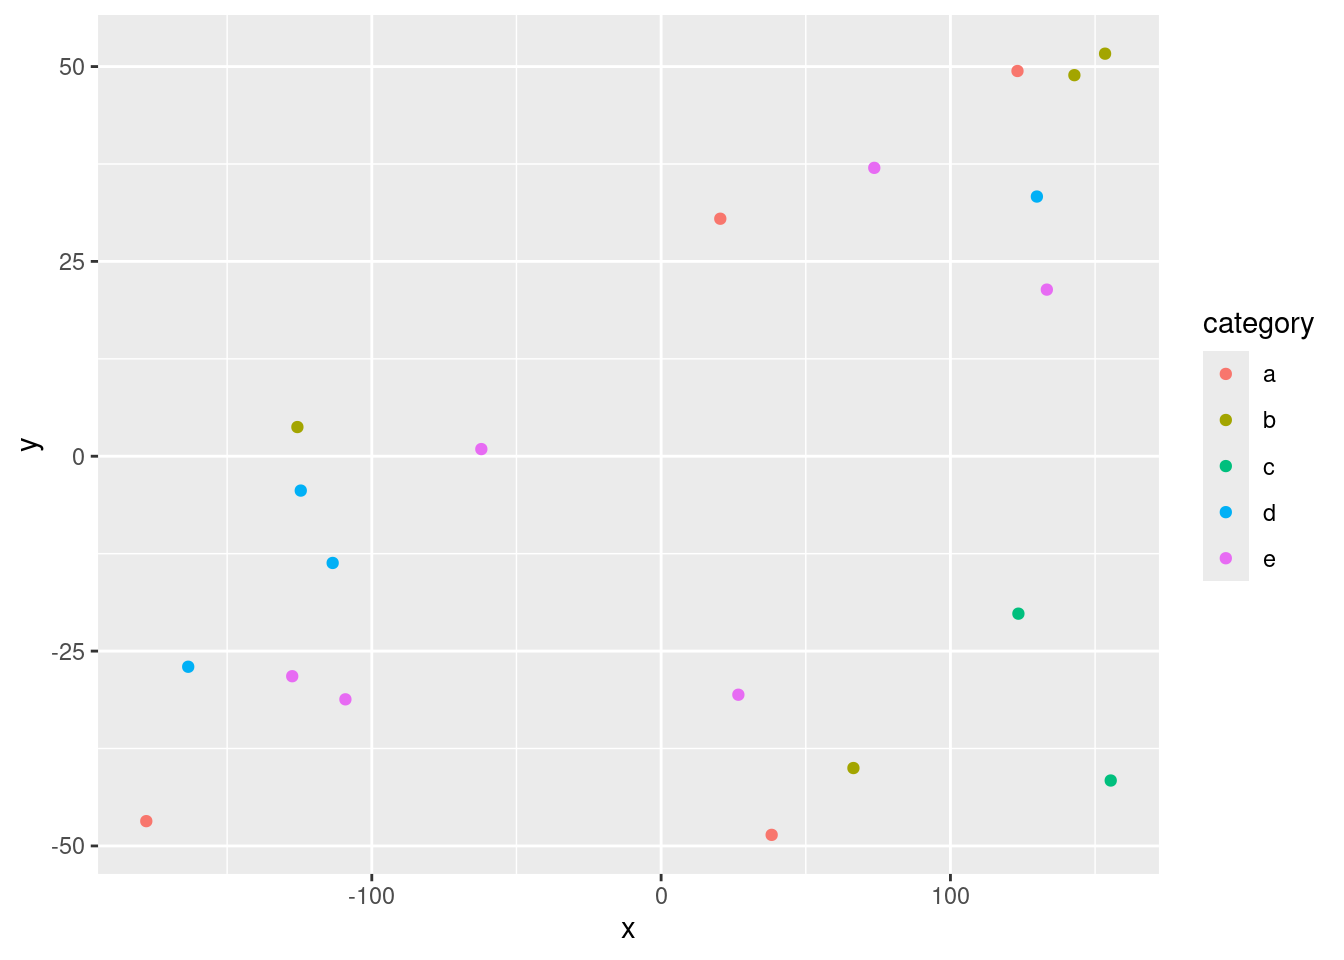
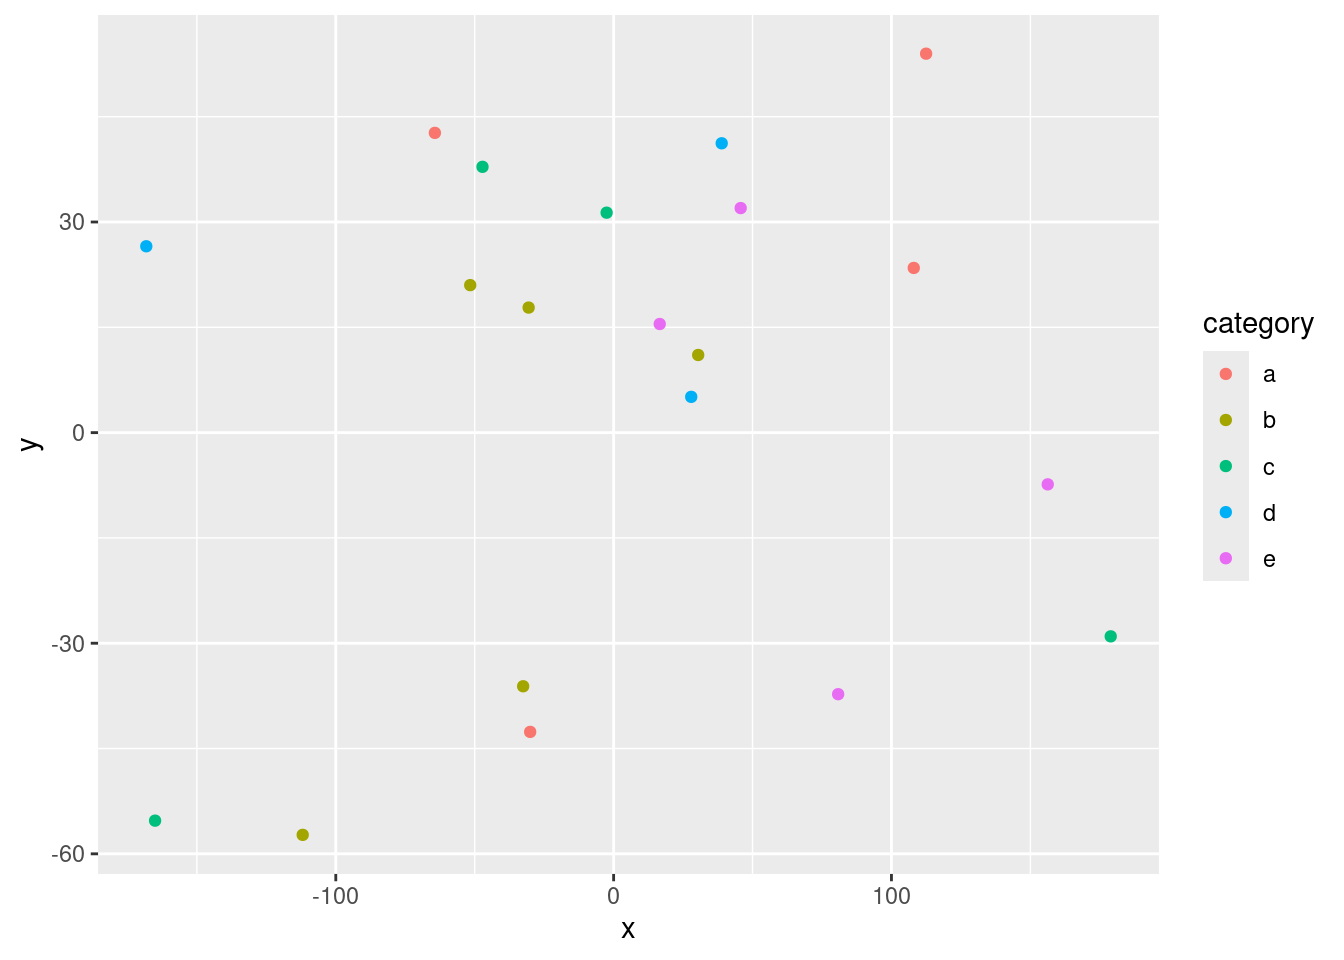
Built site for gh-pages

diff --git a/index.html b/index.html
@@ -266,74 +266,74 @@ pre > code.sourceCode > span > a:first-child::before { text-decoration: underlin
 </thead>
 <tbody>
 <tr class="odd">
-<td style="text-align: center;">-113.53</td>
-<td style="text-align: center;">-13.69</td>
-<td style="text-align: center;">19.98</td>
-<td style="text-align: center;">d</td>
-<td style="text-align: center;">0.06</td>
+<td style="text-align: center;">156.25</td>
+<td style="text-align: center;">-7.37</td>
+<td style="text-align: center;">14.97</td>
+<td style="text-align: center;">e</td>
+<td style="text-align: center;">-1.05</td>
 </tr>
 <tr class="even">
-<td style="text-align: center;">123.17</td>
-<td style="text-align: center;">49.43</td>
-<td style="text-align: center;">6.29</td>
+<td style="text-align: center;">-64.33</td>
+<td style="text-align: center;">42.69</td>
+<td style="text-align: center;">13.96</td>
 <td style="text-align: center;">a</td>
-<td style="text-align: center;">0.03</td>
+<td style="text-align: center;">-2.73</td>
 </tr>
 <tr class="odd">
-<td style="text-align: center;">123.49</td>
-<td style="text-align: center;">-20.20</td>
-<td style="text-align: center;">9.84</td>
+<td style="text-align: center;">-2.52</td>
+<td style="text-align: center;">31.33</td>
+<td style="text-align: center;">19.46</td>
 <td style="text-align: center;">c</td>
-<td style="text-align: center;">0.44</td>
+<td style="text-align: center;">0.53</td>
 </tr>
 <tr class="even">
-<td style="text-align: center;">20.45</td>
-<td style="text-align: center;">30.48</td>
+<td style="text-align: center;">-30.03</td>
+<td style="text-align: center;">-42.63</td>
 <td style="text-align: center;">8.16</td>
 <td style="text-align: center;">a</td>
-<td style="text-align: center;">-0.03</td>
+<td style="text-align: center;">-1.80</td>
 </tr>
 <tr class="odd">
-<td style="text-align: center;">26.70</td>
-<td style="text-align: center;">-30.60</td>
-<td style="text-align: center;">12.02</td>
-<td style="text-align: center;">e</td>
-<td style="text-align: center;">1.18</td>
-</tr>
-<tr class="even">
-<td style="text-align: center;">-109.12</td>
-<td style="text-align: center;">-31.19</td>
-<td style="text-align: center;">8.84</td>
-<td style="text-align: center;">e</td>
-<td style="text-align: center;">-0.49</td>
-</tr>
-<tr class="odd">
-<td style="text-align: center;">-125.72</td>
-<td style="text-align: center;">3.75</td>
-<td style="text-align: center;">6.72</td>
-<td style="text-align: center;">b</td>
-<td style="text-align: center;">0.15</td>
-</tr>
-<tr class="even">
-<td style="text-align: center;">129.88</td>
-<td style="text-align: center;">33.32</td>
-<td style="text-align: center;">12.71</td>
+<td style="text-align: center;">38.90</td>
+<td style="text-align: center;">41.21</td>
+<td style="text-align: center;">16.25</td>
 <td style="text-align: center;">d</td>
-<td style="text-align: center;">-0.54</td>
-</tr>
-<tr class="odd">
-<td style="text-align: center;">-163.45</td>
-<td style="text-align: center;">-27.01</td>
-<td style="text-align: center;">18.40</td>
-<td style="text-align: center;">d</td>
-<td style="text-align: center;">0.47</td>
+<td style="text-align: center;">-0.06</td>
 </tr>
 <tr class="even">
-<td style="text-align: center;">153.45</td>
-<td style="text-align: center;">51.66</td>
-<td style="text-align: center;">7.04</td>
+<td style="text-align: center;">16.60</td>
+<td style="text-align: center;">15.47</td>
+<td style="text-align: center;">6.02</td>
+<td style="text-align: center;">e</td>
+<td style="text-align: center;">0.62</td>
+</tr>
+<tr class="odd">
+<td style="text-align: center;">-51.61</td>
+<td style="text-align: center;">21.01</td>
+<td style="text-align: center;">17.55</td>
 <td style="text-align: center;">b</td>
-<td style="text-align: center;">-0.59</td>
+<td style="text-align: center;">0.85</td>
+</tr>
+<tr class="even">
+<td style="text-align: center;">112.48</td>
+<td style="text-align: center;">53.98</td>
+<td style="text-align: center;">5.95</td>
+<td style="text-align: center;">a</td>
+<td style="text-align: center;">1.78</td>
+</tr>
+<tr class="odd">
+<td style="text-align: center;">30.44</td>
+<td style="text-align: center;">11.06</td>
+<td style="text-align: center;">17.50</td>
+<td style="text-align: center;">b</td>
+<td style="text-align: center;">-0.87</td>
+</tr>
+<tr class="even">
+<td style="text-align: center;">27.93</td>
+<td style="text-align: center;">5.09</td>
+<td style="text-align: center;">16.19</td>
+<td style="text-align: center;">d</td>
+<td style="text-align: center;">-0.69</td>
 </tr>
 </tbody>
 </table>
@@ -355,8 +355,8 @@ pre > code.sourceCode > span > a:first-child::before { text-decoration: underlin
 <span id="cb5-4"><a href="#cb5-4" aria-hidden="true" tabindex="-1"></a>  <span class="fu">addPopups</span>(<span class="sc">~</span>x[<span class="dv">2</span>], <span class="sc">~</span>y[<span class="dv">2</span>], <span class="st">"Random popup"</span>)</span>
 <span id="cb5-5"><a href="#cb5-5" aria-hidden="true" tabindex="-1"></a>m  <span class="co"># a map with the default OSM tile layer</span></span></code><button title="Copy to Clipboard" class="code-copy-button"><i class="bi"></i></button></pre></div>
 <div class="cell-output-display">
-<div class="leaflet html-widget html-fill-item" id="htmlwidget-6e84ed68fc13c3745d2b" style="width:100%;height:325px;"></div>
-<script type="application/json" data-for="htmlwidget-6e84ed68fc13c3745d2b">{"x":{"options":{"crs":{"crsClass":"L.CRS.EPSG3857","code":null,"proj4def":null,"projectedBounds":null,"options":{}}},"calls":[{"method":"addTiles","args":["https://{s}.tile.openstreetmap.org/{z}/{x}/{y}.png",null,null,{"minZoom":0,"maxZoom":18,"tileSize":256,"subdomains":"abc","errorTileUrl":"","tms":false,"noWrap":false,"zoomOffset":0,"zoomReverse":false,"opacity":1,"zIndex":1,"detectRetina":false,"attribution":"&copy; <a href=\"https://openstreetmap.org/copyright/\">OpenStreetMap<\/a>,  <a href=\"https://opendatacommons.org/licenses/odbl/\">ODbL<\/a>"}]},{"method":"addCircleMarkers","args":[[-13.69167672470212,49.43097587674856,-20.19797522574663,30.47744088806212,-30.59910882264376,-31.19086931459606,3.746633240953088,33.32200912758708,-27.01030662283301,51.65517367422581,0.9191422909498215,48.89723595231771,-28.22439612820745,-40.00689608976245,-41.60653037019074,-4.405952850356698,37.00524324551225,-46.82022635824978,21.38016739860177,-48.58152790926397],[-113.5265259817243,123.1739177461714,123.4906800929457,20.45244773849845,26.69905889779329,-109.1221058461815,-125.7151146512479,129.8789140675217,-163.4540387336165,153.4456906188279,-62.14031673967838,142.8390546608716,-127.5057007279247,66.46886019967496,155.3981440700591,-124.5527326036245,73.67414549924433,-177.9440690204501,133.3200974576175,38.20427678525448],[19.98243177891709,6.293828362831846,9.838783241575584,8.162081751506776,12.02248456538655,8.839970025001094,6.718606622889638,12.71059629507363,18.40141138294712,7.040589798707515,17.57148861535825,19.76431832415983,5.618941365974024,13.36081321001984,9.549666709499434,17.10828049224801,11.59377742442302,11.80689386092126,11.71029668068513,12.72205905755982],null,null,{"interactive":true,"className":"","stroke":true,"color":["d","a","c","a","e","e","b","d","d","b","e","b","e","b","c","d","e","a","e","a"],"weight":5,"opacity":0.5,"fill":true,"fillColor":["d","a","c","a","e","e","b","d","d","b","e","b","e","b","c","d","e","a","e","a"],"fillOpacity":0.2},null,null,null,null,null,{"interactive":false,"permanent":false,"direction":"auto","opacity":1,"offset":[0,0],"textsize":"10px","textOnly":false,"className":"","sticky":true},null]},{"method":"addPopups","args":[49.43097587674856,123.1739177461714,"Random popup",null,null,{"maxWidth":300,"minWidth":50,"autoPan":true,"keepInView":false,"closeButton":true,"className":""}]}],"limits":{"lat":[-48.58152790926397,51.65517367422581],"lng":[-177.9440690204501,155.3981440700591]}},"evals":[],"jsHooks":[]}</script>
+<div class="leaflet html-widget html-fill-item" id="htmlwidget-137872a178eb728ce99d" style="width:100%;height:325px;"></div>
+<script type="application/json" data-for="htmlwidget-137872a178eb728ce99d">{"x":{"options":{"crs":{"crsClass":"L.CRS.EPSG3857","code":null,"proj4def":null,"projectedBounds":null,"options":{}}},"calls":[{"method":"addTiles","args":["https://{s}.tile.openstreetmap.org/{z}/{x}/{y}.png",null,null,{"minZoom":0,"maxZoom":18,"tileSize":256,"subdomains":"abc","errorTileUrl":"","tms":false,"noWrap":false,"zoomOffset":0,"zoomReverse":false,"opacity":1,"zIndex":1,"detectRetina":false,"attribution":"&copy; <a href=\"https://openstreetmap.org/copyright/\">OpenStreetMap<\/a>,  <a href=\"https://opendatacommons.org/licenses/odbl/\">ODbL<\/a>"}]},{"method":"addCircleMarkers","args":[[-7.371287634596229,42.69213904626667,31.32672635838389,-42.6302113942802,41.20860840193927,15.46939473599195,21.00589360110462,53.97518271580338,11.05715403333306,5.093917222693563,-36.13005833700299,-29.02204647660255,17.80909898690879,37.85738867707551,-57.29677808471024,-55.27120227925479,23.45587033778429,26.5417901147157,-37.25773131474853,31.9814617652446],[156.2536309473217,-64.33364287018776,-2.515303529798985,-30.03371282480657,38.90470541082323,16.59983930177987,-51.61380548961461,112.4769052583724,30.44021224603057,27.93452435173094,-32.56137765012681,178.9212484750897,-30.58365125209093,-47.19093971885741,-111.9078835844994,-165.0392558611929,108.0323468707502,-168.2058797869831,80.81476625986397,45.73035721667111],[14.96722431853414,13.96139657008462,19.46473511401564,8.164619889575988,16.25286093913019,6.021337443962693,17.54823178169318,5.945132375927642,17.49665253213607,16.18801065022126,15.49989712890238,9.961054320447147,12.23044025711715,19.45284031680785,11.51430286932737,15.41171030490659,7.542784179095179,19.26765927579254,6.444844483630732,18.52993740118109],null,null,{"interactive":true,"className":"","stroke":true,"color":["e","a","c","a","d","e","b","a","b","d","b","c","b","c","b","c","a","d","e","e"],"weight":5,"opacity":0.5,"fill":true,"fillColor":["e","a","c","a","d","e","b","a","b","d","b","c","b","c","b","c","a","d","e","e"],"fillOpacity":0.2},null,null,null,null,null,{"interactive":false,"permanent":false,"direction":"auto","opacity":1,"offset":[0,0],"textsize":"10px","textOnly":false,"className":"","sticky":true},null]},{"method":"addPopups","args":[42.69213904626667,-64.33364287018776,"Random popup",null,null,{"maxWidth":300,"minWidth":50,"autoPan":true,"keepInView":false,"closeButton":true,"className":""}]}],"limits":{"lat":[-57.29677808471024,53.97518271580338],"lng":[-168.2058797869831,178.9212484750897]}},"evals":[],"jsHooks":[]}</script>
 <p>Map of completely random data</p>
 </div>
 </div>
@@ -379,8 +379,8 @@ pre > code.sourceCode > span > a:first-child::before { text-decoration: underlin
 <span id="cb7-2"><a href="#cb7-2" aria-hidden="true" tabindex="-1"></a><span class="fu">dygraph</span>(nhtemp, <span class="at">main =</span> <span class="st">"New Haven Temperatures"</span>) <span class="sc">|&gt;</span> </span>
 <span id="cb7-3"><a href="#cb7-3" aria-hidden="true" tabindex="-1"></a>  <span class="fu">dyRangeSelector</span>(<span class="at">dateWindow =</span> <span class="fu">c</span>(<span class="st">"1920-01-01"</span>, <span class="st">"1960-01-01"</span>)) </span></code><button title="Copy to Clipboard" class="code-copy-button"><i class="bi"></i></button></pre></div>
 <div class="cell-output-display">
-<div class="dygraphs html-widget html-fill-item" id="htmlwidget-27b9fbd87546fa9d3bbd" style="width:100%;height:464px;"></div>
-<script type="application/json" data-for="htmlwidget-27b9fbd87546fa9d3bbd">{"x":{"attrs":{"title":"New Haven Temperatures","labels":["year","V1"],"legend":"auto","retainDateWindow":false,"axes":{"x":{"pixelsPerLabel":60}},"showRangeSelector":true,"dateWindow":["1920-01-01T00:00:00.000Z","1960-01-01T00:00:00.000Z"],"rangeSelectorHeight":40,"rangeSelectorPlotFillColor":" #A7B1C4","rangeSelectorPlotStrokeColor":"#808FAB","interactionModel":"Dygraph.Interaction.defaultModel"},"scale":"yearly","annotations":[],"shadings":[],"events":[],"format":"date","data":[["1912-01-01T00:00:00.000Z","1913-01-01T00:00:00.000Z","1914-01-01T00:00:00.000Z","1915-01-01T00:00:00.000Z","1916-01-01T00:00:00.000Z","1917-01-01T00:00:00.000Z","1918-01-01T00:00:00.000Z","1919-01-01T00:00:00.000Z","1920-01-01T00:00:00.000Z","1921-01-01T00:00:00.000Z","1922-01-01T00:00:00.000Z","1923-01-01T00:00:00.000Z","1924-01-01T00:00:00.000Z","1925-01-01T00:00:00.000Z","1926-01-01T00:00:00.000Z","1927-01-01T00:00:00.000Z","1928-01-01T00:00:00.000Z","1929-01-01T00:00:00.000Z","1930-01-01T00:00:00.000Z","1931-01-01T00:00:00.000Z","1932-01-01T00:00:00.000Z","1933-01-01T00:00:00.000Z","1934-01-01T00:00:00.000Z","1935-01-01T00:00:00.000Z","1936-01-01T00:00:00.000Z","1937-01-01T00:00:00.000Z","1938-01-01T00:00:00.000Z","1939-01-01T00:00:00.000Z","1940-01-01T00:00:00.000Z","1941-01-01T00:00:00.000Z","1942-01-01T00:00:00.000Z","1943-01-01T00:00:00.000Z","1944-01-01T00:00:00.000Z","1945-01-01T00:00:00.000Z","1946-01-01T00:00:00.000Z","1947-01-01T00:00:00.000Z","1948-01-01T00:00:00.000Z","1949-01-01T00:00:00.000Z","1950-01-01T00:00:00.000Z","1951-01-01T00:00:00.000Z","1952-01-01T00:00:00.000Z","1953-01-01T00:00:00.000Z","1954-01-01T00:00:00.000Z","1955-01-01T00:00:00.000Z","1956-01-01T00:00:00.000Z","1957-01-01T00:00:00.000Z","1958-01-01T00:00:00.000Z","1959-01-01T00:00:00.000Z","1960-01-01T00:00:00.000Z","1961-01-01T00:00:00.000Z","1962-01-01T00:00:00.000Z","1963-01-01T00:00:00.000Z","1964-01-01T00:00:00.000Z","1965-01-01T00:00:00.000Z","1966-01-01T00:00:00.000Z","1967-01-01T00:00:00.000Z","1968-01-01T00:00:00.000Z","1969-01-01T00:00:00.000Z","1970-01-01T00:00:00.000Z","1971-01-01T00:00:00.000Z"],[49.9,52.3,49.4,51.1,49.4,47.9,49.8,50.9,49.3,51.9,50.8,49.6,49.3,50.6,48.4,50.7,50.9,50.6,51.5,52.8,51.8,51.1,49.8,50.2,50.4,51.6,51.8,50.9,48.8,51.7,51,50.6,51.7,51.5,52.1,51.3,51,54,51.4,52.7,53.1,54.6,52,52,50.9,52.6,50.2,52.6,51.6,51.9,50.5,50.9,51.7,51.4,51.7,50.8,51.9,51.8,51.9,53]]},"evals":["attrs.interactionModel"],"jsHooks":[]}</script>
+<div class="dygraphs html-widget html-fill-item" id="htmlwidget-b6df3c73d9451300fe92" style="width:100%;height:464px;"></div>
+<script type="application/json" data-for="htmlwidget-b6df3c73d9451300fe92">{"x":{"attrs":{"title":"New Haven Temperatures","labels":["year","V1"],"legend":"auto","retainDateWindow":false,"axes":{"x":{"pixelsPerLabel":60}},"showRangeSelector":true,"dateWindow":["1920-01-01T00:00:00.000Z","1960-01-01T00:00:00.000Z"],"rangeSelectorHeight":40,"rangeSelectorPlotFillColor":" #A7B1C4","rangeSelectorPlotStrokeColor":"#808FAB","interactionModel":"Dygraph.Interaction.defaultModel"},"scale":"yearly","annotations":[],"shadings":[],"events":[],"format":"date","data":[["1912-01-01T00:00:00.000Z","1913-01-01T00:00:00.000Z","1914-01-01T00:00:00.000Z","1915-01-01T00:00:00.000Z","1916-01-01T00:00:00.000Z","1917-01-01T00:00:00.000Z","1918-01-01T00:00:00.000Z","1919-01-01T00:00:00.000Z","1920-01-01T00:00:00.000Z","1921-01-01T00:00:00.000Z","1922-01-01T00:00:00.000Z","1923-01-01T00:00:00.000Z","1924-01-01T00:00:00.000Z","1925-01-01T00:00:00.000Z","1926-01-01T00:00:00.000Z","1927-01-01T00:00:00.000Z","1928-01-01T00:00:00.000Z","1929-01-01T00:00:00.000Z","1930-01-01T00:00:00.000Z","1931-01-01T00:00:00.000Z","1932-01-01T00:00:00.000Z","1933-01-01T00:00:00.000Z","1934-01-01T00:00:00.000Z","1935-01-01T00:00:00.000Z","1936-01-01T00:00:00.000Z","1937-01-01T00:00:00.000Z","1938-01-01T00:00:00.000Z","1939-01-01T00:00:00.000Z","1940-01-01T00:00:00.000Z","1941-01-01T00:00:00.000Z","1942-01-01T00:00:00.000Z","1943-01-01T00:00:00.000Z","1944-01-01T00:00:00.000Z","1945-01-01T00:00:00.000Z","1946-01-01T00:00:00.000Z","1947-01-01T00:00:00.000Z","1948-01-01T00:00:00.000Z","1949-01-01T00:00:00.000Z","1950-01-01T00:00:00.000Z","1951-01-01T00:00:00.000Z","1952-01-01T00:00:00.000Z","1953-01-01T00:00:00.000Z","1954-01-01T00:00:00.000Z","1955-01-01T00:00:00.000Z","1956-01-01T00:00:00.000Z","1957-01-01T00:00:00.000Z","1958-01-01T00:00:00.000Z","1959-01-01T00:00:00.000Z","1960-01-01T00:00:00.000Z","1961-01-01T00:00:00.000Z","1962-01-01T00:00:00.000Z","1963-01-01T00:00:00.000Z","1964-01-01T00:00:00.000Z","1965-01-01T00:00:00.000Z","1966-01-01T00:00:00.000Z","1967-01-01T00:00:00.000Z","1968-01-01T00:00:00.000Z","1969-01-01T00:00:00.000Z","1970-01-01T00:00:00.000Z","1971-01-01T00:00:00.000Z"],[49.9,52.3,49.4,51.1,49.4,47.9,49.8,50.9,49.3,51.9,50.8,49.6,49.3,50.6,48.4,50.7,50.9,50.6,51.5,52.8,51.8,51.1,49.8,50.2,50.4,51.6,51.8,50.9,48.8,51.7,51,50.6,51.7,51.5,52.1,51.3,51,54,51.4,52.7,53.1,54.6,52,52,50.9,52.6,50.2,52.6,51.6,51.9,50.5,50.9,51.7,51.4,51.7,50.8,51.9,51.8,51.9,53]]},"evals":["attrs.interactionModel"],"jsHooks":[]}</script>
 </div>
 </div>
 </section>
